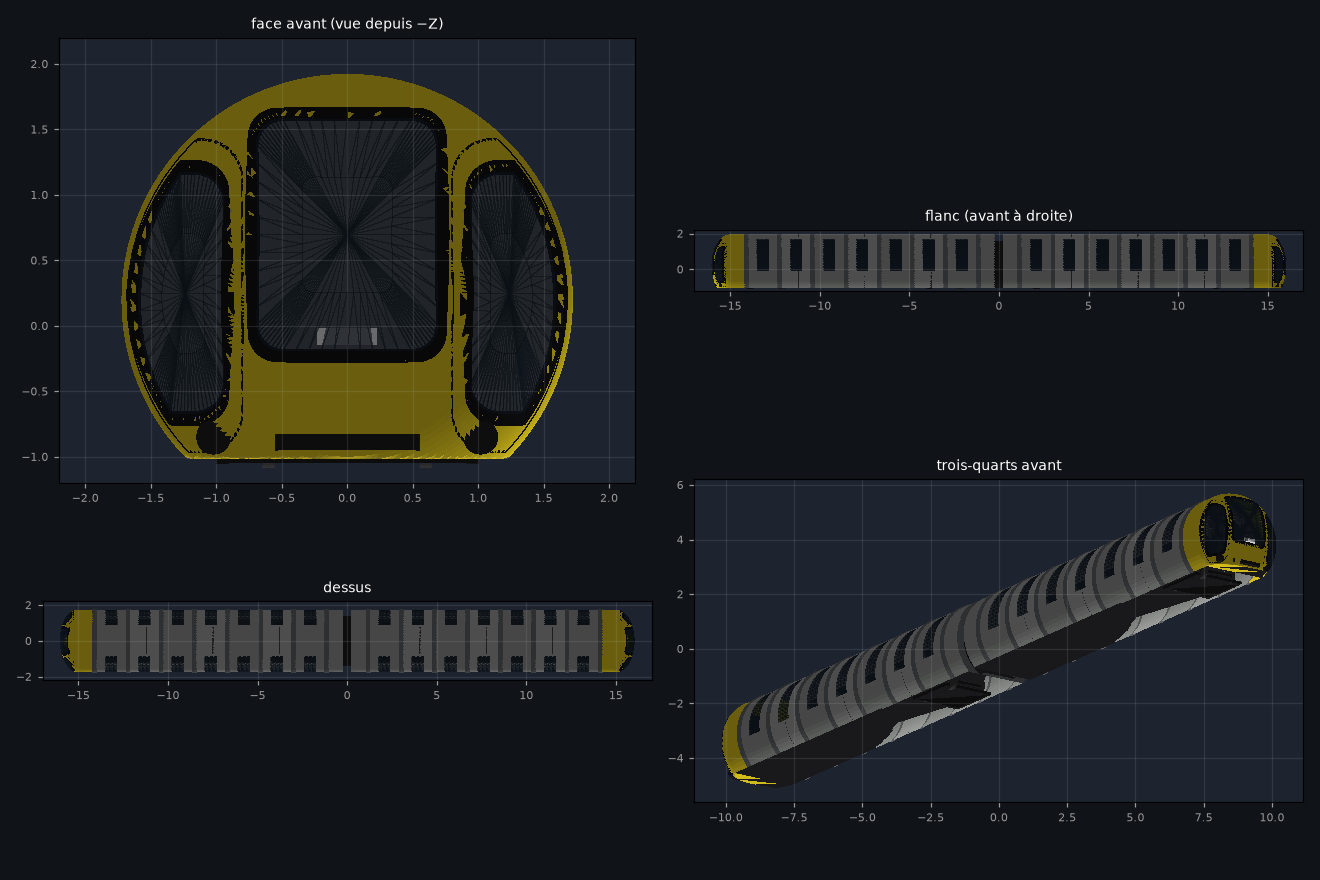
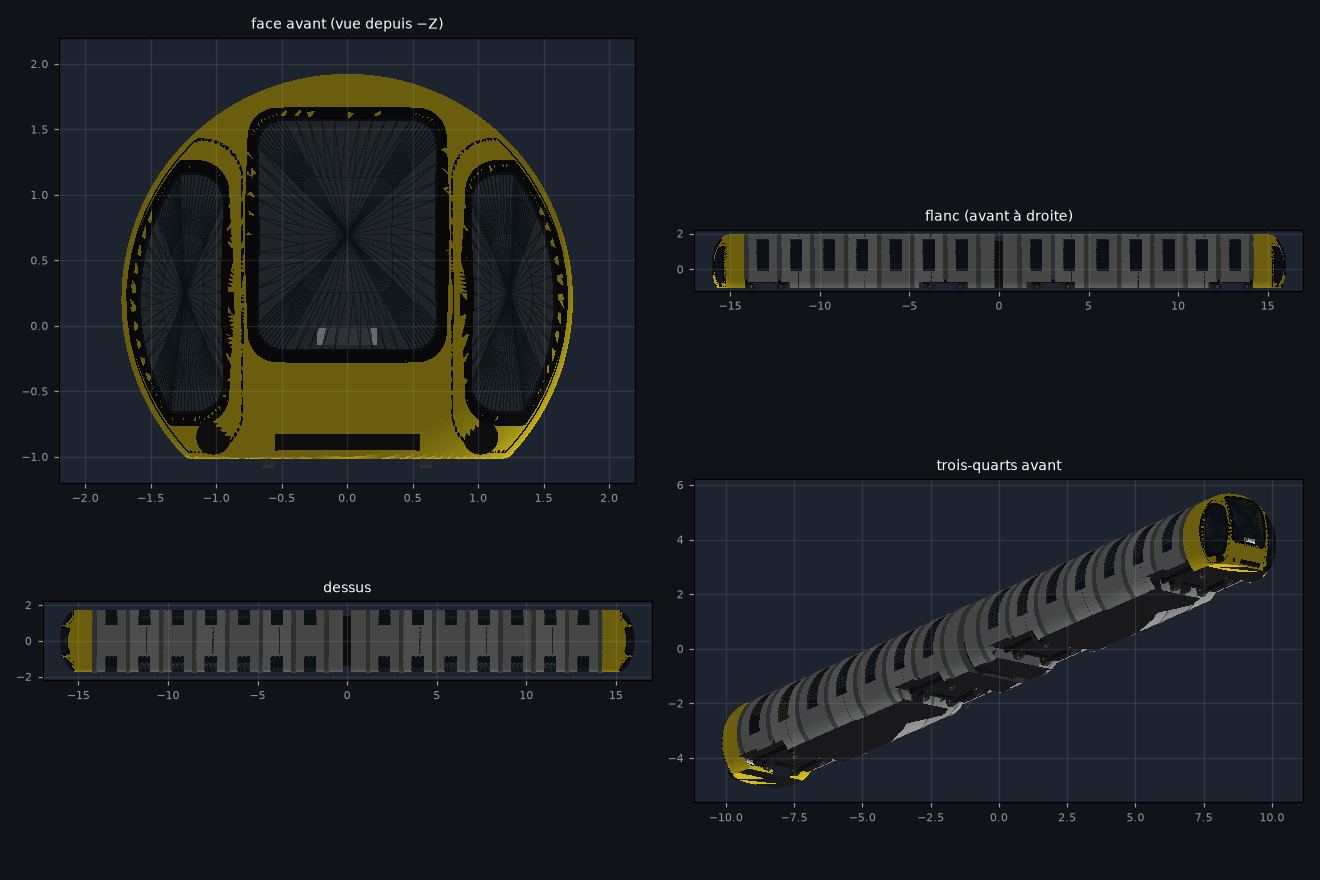
Les deux voitures s'articulent en courbe, les roues tournent sur les rails
La rame n'est plus un bloc rigide de 32 m. Chaque voiture est un noeud
pose sur la spline a sa propre abscisse (s -/+ 8 m) avec sa propre
orientation, replace chaque frame ; l'interieur (plancher, plafond,
bandeau LED, sieges, passagers, mains courantes) est scinde par voiture
et suit. Pupitre, siege conducteur, camera et phares restent rigides
avec la cabine, qui est le repere de la vue. Le soufflet suit la voiture
de tete.

Roues : quatre par bogie sur pivots, tournees a v/R (roulement sans
glissement), avec moyeu clair et barres radiales sur la face externe -
une roue lisse qui tourne ne se voit pas. Essieux, boites d'essieu et
longerons ; la jupe est echancree au droit des bogies (2,8 m) pour qu'on
les voie sur les rails depuis la vue exterieure.

Banc de maillage rendu recursif (noeuds par voiture) ; scene complete et
bancs pannes/defi verts.

diff --git a/README.md b/README.md
@@ -14,6 +14,21 @@ An accurate PyQt6 simulation of the *Perce-Neige* underground funicular (built 1
 
 ## Quoi de neuf — v1.13.x (audit physique des voyages, 26 septembre 2026)
 
+**v1.13.5** — les deux voitures s'articulent, les roues tournent sur les
+rails :
+- **Articulation** : la rame n'est plus un bloc rigide de 32 m. Chaque
+  voiture est un nœud posé **sur la spline à sa propre abscisse** (s ∓ 8 m)
+  avec sa propre orientation, replacé chaque frame ; l'intérieur (plancher,
+  plafond, bandeau LED, sièges, passagers, mains courantes) est scindé par
+  voiture et suit. Pupitre, siège conducteur, caméra et phares restent
+  rigides avec la cabine (c'est le repère de la vue). Le soufflet suit la
+  voiture de tête.
+- **Roues** : quatre roues par bogie sur pivots, tournées à v/R (roulement
+  sans glissement), avec moyeu clair et barres radiales sur la face externe
+  — une roue lisse qui tourne ne se voit pas. Essieux, boîtes d'essieu et
+  longerons de bogie ; la jupe est **échancrée** au droit des bogies
+  (2,8 m) pour qu'on les voie sur les rails depuis la vue extérieure.
+
 **v1.13.4** — la voie descend dans le tube, la coque redevient opaque, la
 vue orbitale tourne en ligne, la puissance de redémarrage :
 - **Voie descendue de 0,50 m** (`floor_y_local` −1,85) : la table de
